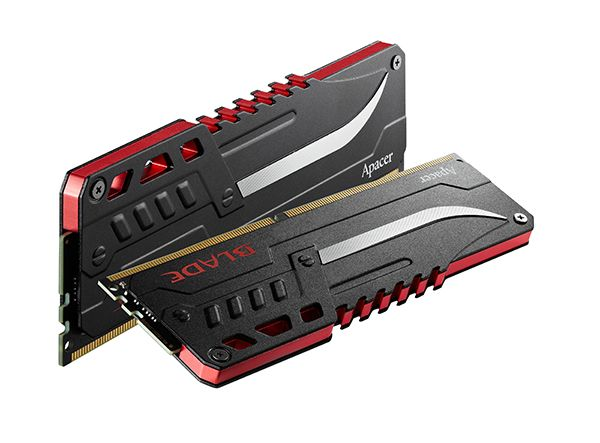
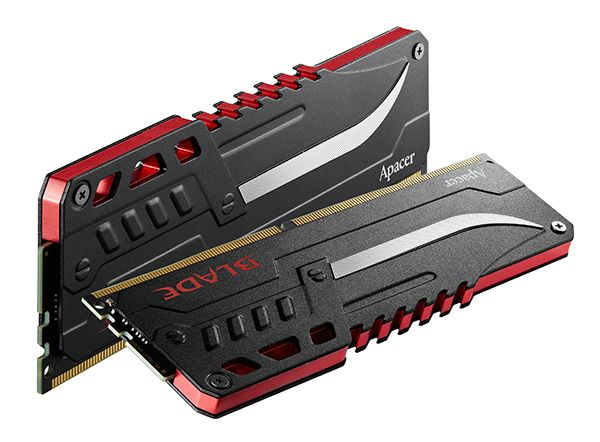
img2

Changed region(s): [[0.06, 0.0588, 0.96, 0.9412], [0.42, 0.2941, 0.45, 0.3235]]

diff --git a/style/css/public.css b/style/css/public.css
@@ -2726,7 +2726,7 @@ a.list-group-item-danger.active:hover, a.list-group-item-danger.active:focus { b
 @media(min-width:992px) { .page .box-gift .inner .item-gift { width: 25%; } }
 .page .box-gift .inner .item-gift .img { text-align: center; height: 200px; border: 1px solid #bdbdbd; margin-bottom: 15px; }
 .page .box-gift .inner .item-gift .img:before { content: ""; display: inline-block; vertical-align: middle; height: 100%; }
-.page .box-gift .inner .item-gift .img img { display: block; max-width: 95%; max-height: 95%; font-size: inherit; display: inline-block; vertical-align: middle; }
+.page .box-gift .inner .item-gift .img img { display: block; max-width: 90%; max-height: 90%; font-size: inherit; display: inline-block; vertical-align: middle; }
 .page .box-gift .inner .item-gift .brand { font-size: 16px; font-size: 1.6rem; color: #1a1a1a; line-height: 1.5; margin-bottom: 5px; }
 .page .box-gift .inner .item-gift .product { font-size: 18px; font-size: 1.8rem; color: #1a1a1a; line-height: 24px; }
 .page .box-gift .inner .item-gift .product span { display: block; font-size: 15px; font-size: 1.5rem; line-height: 21px; color: #616161; }

diff --git a/style/css/slick.css b/style/css/slick.css
@@ -101,8 +101,8 @@
 .slick-slide img
 {
     display: block;
-    max-width: 95%;
-    max-height: 95%;
+    max-width: 90%;
+    max-height: 90%;
     font-size: inherit;
     display: inline-block;
     vertical-align: middle;

diff --git a/style/sass/_main.sass b/style/sass/_main.sass
@@ -488,8 +488,8 @@
 
 					img
 						display: block
-						max-width: 95%
-						max-height: 95%
+						max-width: 90%
+						max-height: 90%
 						font-size: inherit
 						display: inline-block
 						vertical-align: middle
